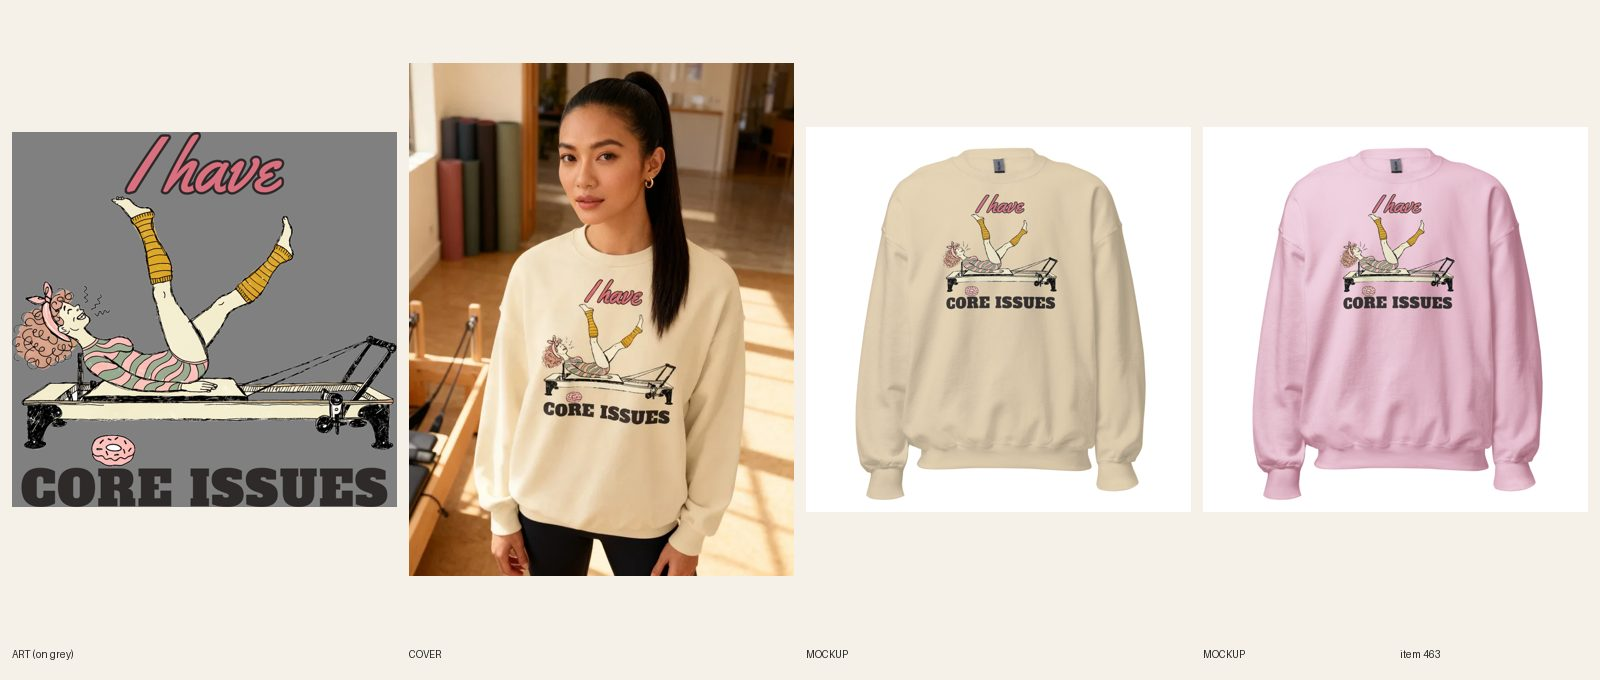
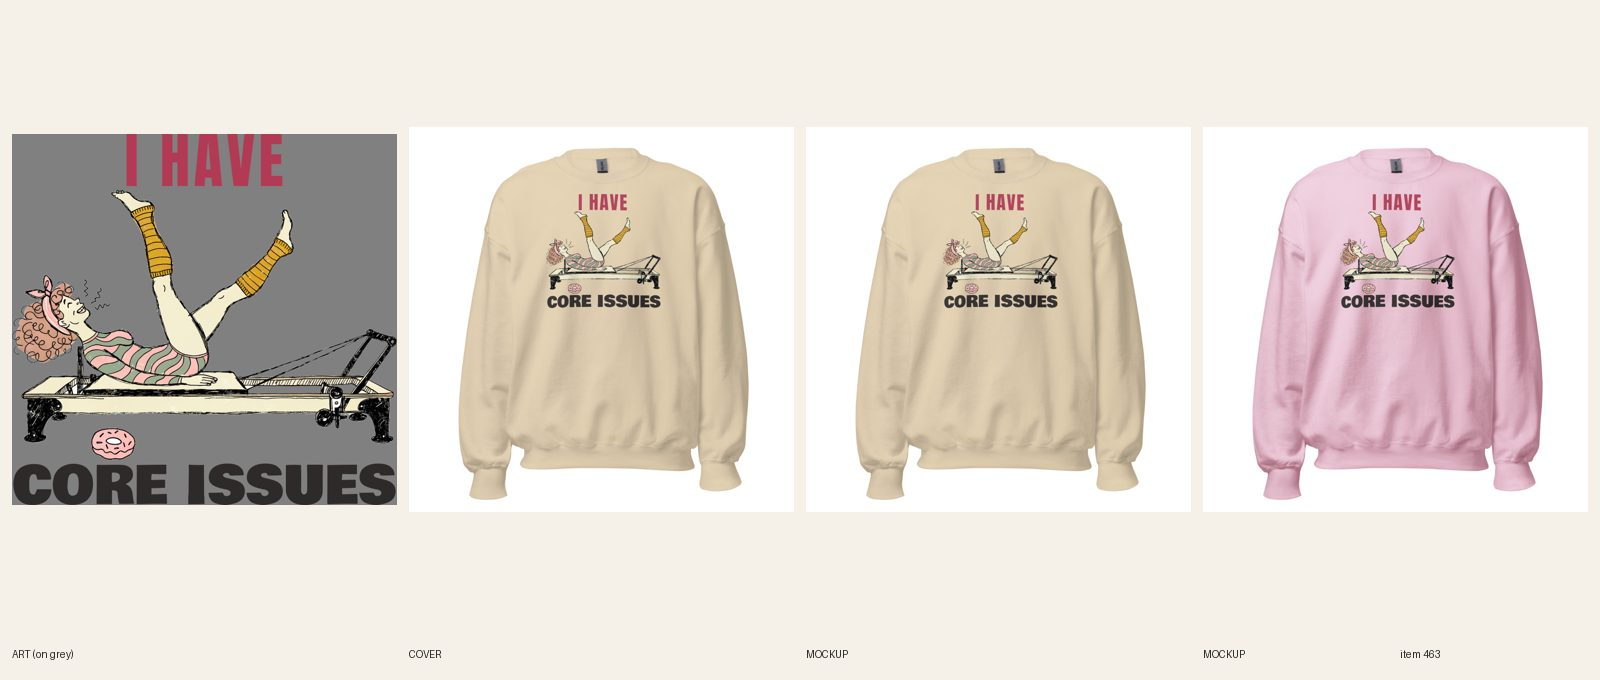
[B] review 463 Core Issues crewneck (type redo)
Claude-Session: https://claude.ai/code/session_0176V3ZNYToKoTpjCVDGmXp6

Changed region(s): [[0.0, 0.0926, 0.5, 0.8647], [0.8438, 0.2779, 0.9062, 0.4632], [0.5938, 0.2779, 0.6562, 0.4632]]

diff --git a/docs/pipeline/463-pilates-crew-core-issues.md b/docs/pipeline/463-pilates-crew-core-issues.md
@@ -1,4 +1,4 @@
-status: BUILDING [B] 2026-10-19T18:00Z
+status: REVIEW
 lane: B
 type: new
 id: 463
@@ -30,3 +30,4 @@ kd: 35
 - 2026-10-17 20:43 UTC builder [B]: synced 12/12. REVIEW. Sheet docs/review/463.jpg.
 - 2026-10-17 21:19 UTC director: LIVE. sheet seen: 1960s reformer cartoon, 'I have' + CORE ISSUES reads on Sand and Light Pink; cover woman in a pilates studio. ACTIVE + Online Store, Headless, Google & YouTube; audit --handle PASS.
 - 2026-10-18 17:22 UTC director: QUALITY RESET grade B (type only), REDO. The product stays ACTIVE (same handle, URL, title keyword). Keep the line "I have / CORE ISSUES" and the art. 1. Type: Thin pink script "I have" ~45% width on top; headline split, weak hierarchy. 2. Quality reset type bar (docs/backlog/quality-reset.md, 'The new bar'): headline at least 90% of the art width, heavy, colors pulled from the art; second line at least 45% of the headline's height, never a thin script on a dark or mid garment; use the lettering as a shape (arch, stacked lockup, words breaking into the art), not a plain bar above and a script line below; no font used on more than 1 in 6 of the last 30 designs. 3. New print file means a new cover per R6.10 and a fresh review sheet (R7.7). While quality-reset.md says PAUSED, only lane A builds, and only the samples step 2 names.
+- 2026-10-19 18:09 UTC builder [B]: REDO type-only done. Same art (designs/b/pl-a.png), new print designs/b/pl2.json: I HAVE in Anton rose #b23a55 (50% art width, heavy), CORE ISSUES in Bowlby One charcoal #2f2a2a at full art width; both fills dark, no cream, so no light file needed. Print 3312x3195, FW 1650 TOP 75. Printful file 1089718074, resynced 12/12. Front mockups Sand + Light Pink replaced in place in Shopify (back unchanged); Story lettering sentence updated. Phone-size read ok on both. Cover: handle added to retired-covers.json (plain product shot). fal $0. Sheet docs/review/463.jpg.

diff --git a/docs/intake-log.md b/docs/intake-log.md
@@ -1,5 +1,5 @@
-RUNNING lane B since 2026-10-19 18:00 UTC
 RUNNING lane A since 2026-10-19 18:05 UTC
+2026-10-19 18:09 UTC — [B] Builder run: redid #463 Core Issues crewneck (type only: heavy Anton rose I HAVE + Bowlby One charcoal CORE ISSUES at full art width, same art, FW 1650, file 1089718074, 12/12 resynced, 2 fronts replaced in place, plain product shot). REVIEW. fal $0. Lock released.
 2026-10-19 17:57 UTC — [E] Builder run: redid #490 Plans Canceled. Mood Improved. hoodie (director R5.3.8: Sand now has its own file, MOOD IMPROVED. in solid dark brown with no keyline, PLANS CANCELED. orange; file 1089709719, Sand 6/6 relinked, Sand front replaced in place, Story ink sentence updated). REVIEW. fal $0. 1 redo per run cap reached. Lock released.
 2026-10-19 17:45 UTC — [H] Helper run: Telegram inbox empty (getUpdates returned 0 updates; no pause, resume or TikTok links; nothing to consume). Audit (600 live products): 0 errors, 30 warnings left alone (polish); no meta, SEO, collection or price errors to fix. Category check: 0 products without a category (Shopify query empty). Site freshness: womens-cat-oops-anyway-crewneck-sweatshirt, unisex-introvert-i-have-plans-hoodie, mens-christmas-bulking-season-graphic-tee all 200. Stuck check: 0 items BUILDING; lane C lock (17:30) is current. Daily summary not due (sent 16:05). Stale helper lock from 16:45 taken over at start. Lock released.
 2026-10-19 17:56 UTC — [B] Builder run: redid #461 Expert in Après crewneck (type only: Alfa Slab burgundy headline at full art width + Anton navy second line, dark-ink file for Sand/Light Pink, same art, FW 1650, 12/12 resynced, 2 fronts replaced in place, plain product shot). REVIEW. fal $0. Lock released.
